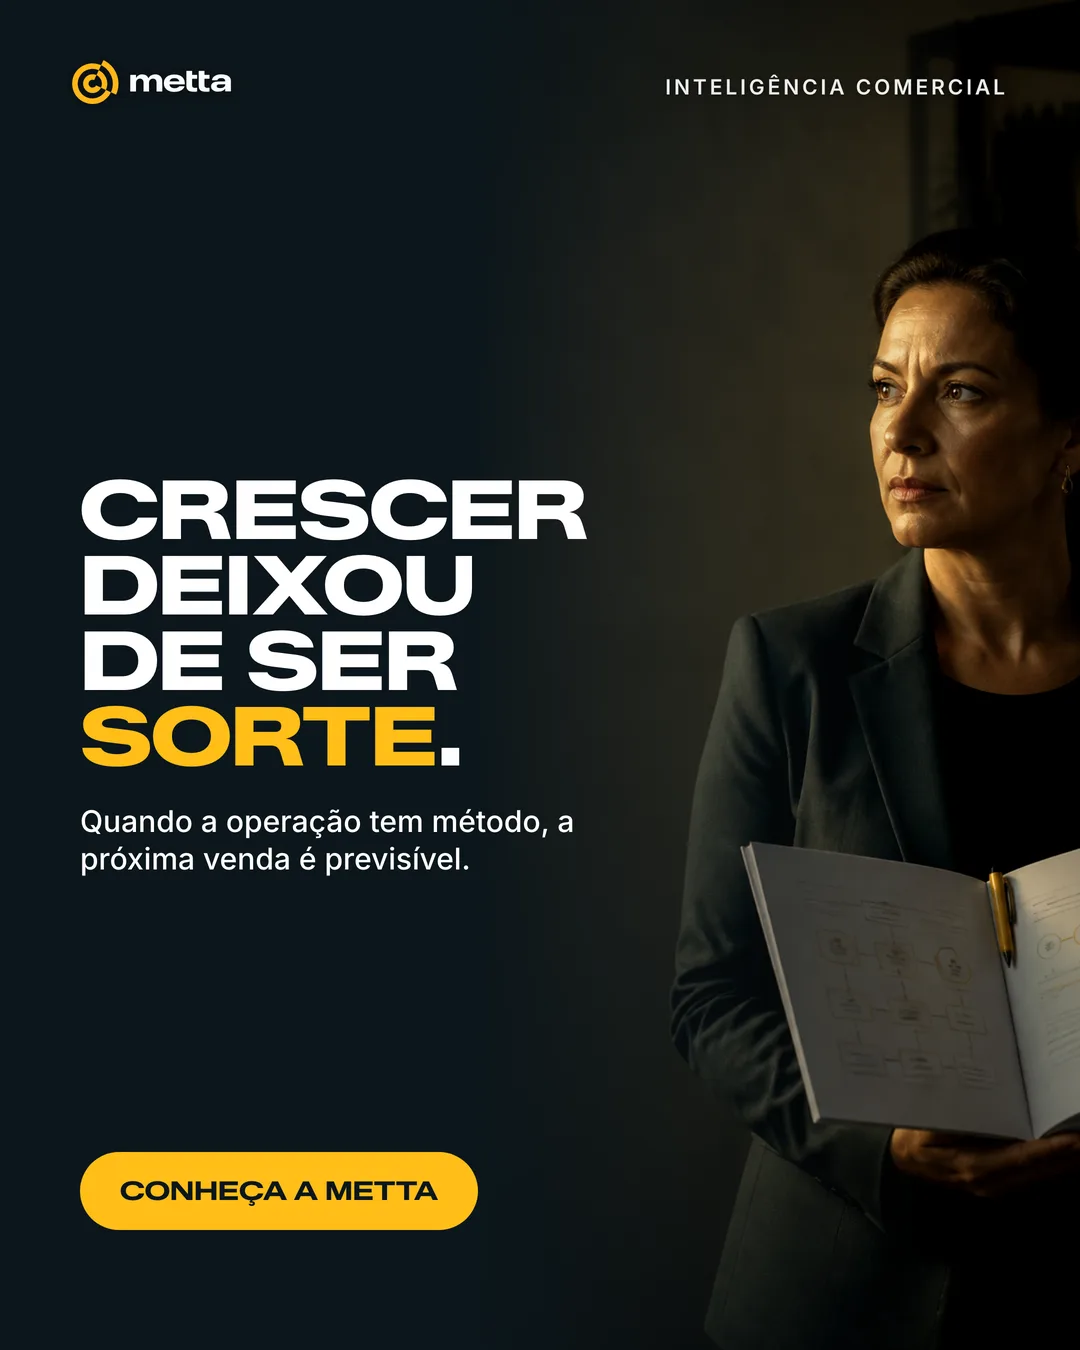
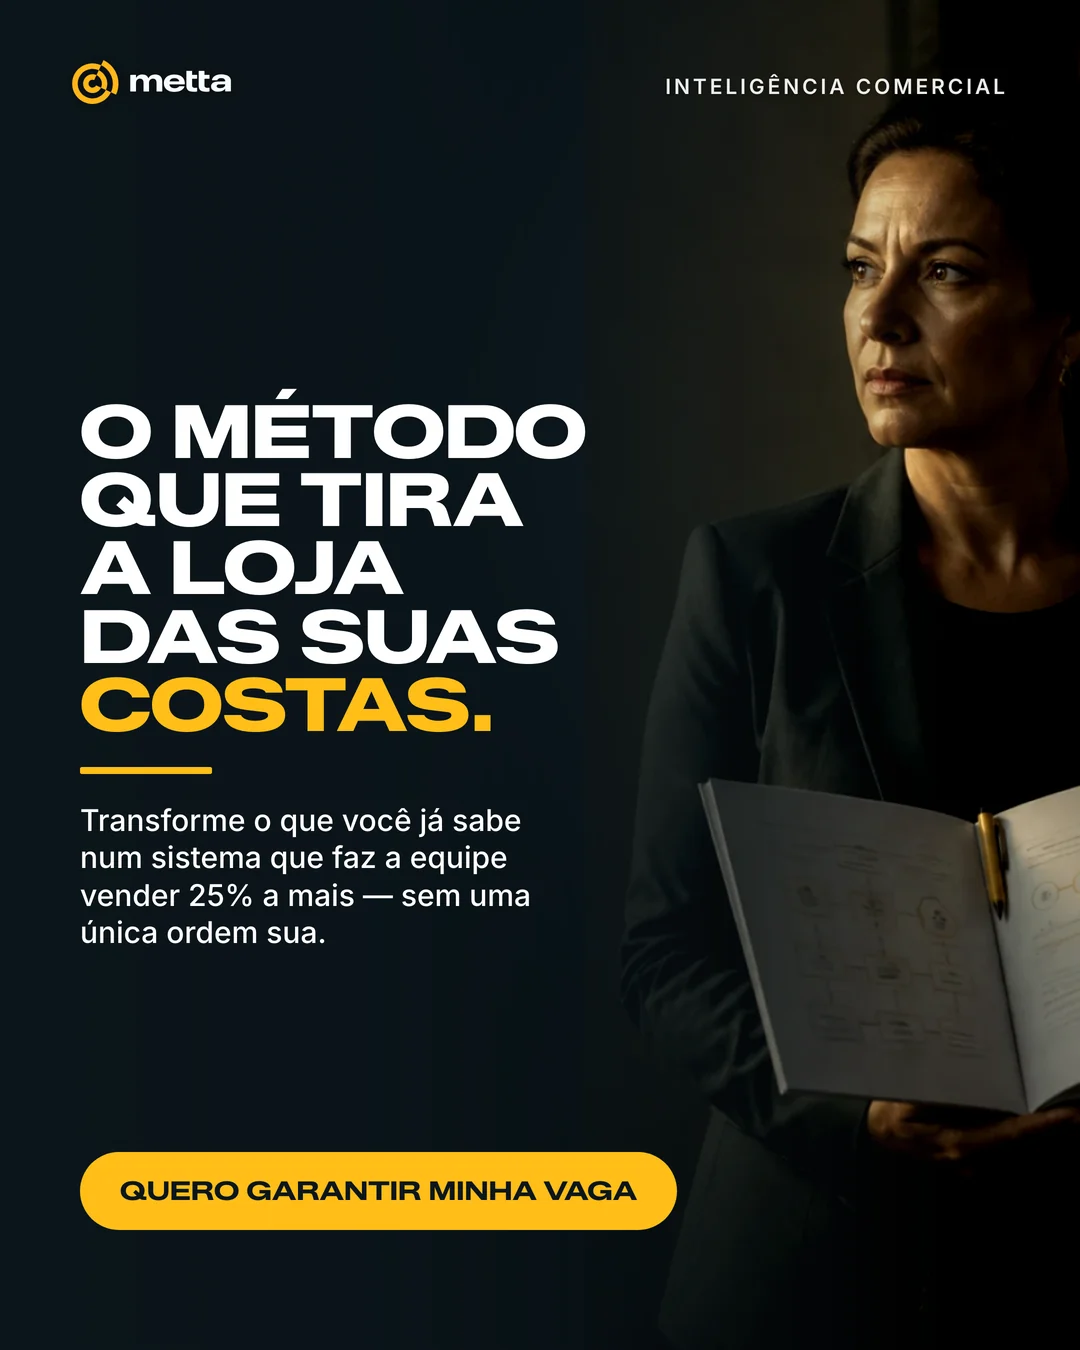
feat(picker): atualiza os 14 previews da etapa Estilo + fixes de raiz
Previews estavam datados (7-8/jul, antes das correções): o do tweet mostrava
avatar 'M', selo cinza e destaque amarelo — tudo já corrigido. Refeitos os 14:

- 5 só-texto re-renderizados com o motor atual (tweet, tipografia pura,
  número gigante, frame, headline branco).
- 5 com foto nova gerada (objeto 3D, fullbleed, editorial surreal, retrato
  P&B, bloco amarelo).
- 4 com composição calibrada / foto limpa (headline dark = ICP Metta +
  livro de método; foto-topo; card notícia; split amarelo = time de 3).

Fixes de raiz descobertos no processo:
- _art_director.py: campo `proof` dava "+R$ 8,5 BILHÕES" como EXEMPLO e o
  LLM copiava como dado real (aparecia em 3 peças). Trocado por placeholders
  «métrica» + regra dura de nunca inventar/estimar número.
- criar.html: LOGO-WALL vira "Em breve" (não há logos reais dos clientes;
  renderizava placeholders "logo"). Sai também das opções de carrossel.

engine: bump do pointer pro fix do tese_central (já pushado no ad-generator).

diff --git a/source/embed/criar.html b/source/embed/criar.html
@@ -1165,7 +1165,7 @@ const STYLES_METTA = [
   { id: 'YELLOW-SPLIT',                  label: 'Split amarelo/foto',                desc: 'Canvas dividido — metade amarela com headline, metade foto. Dualidade clara.',                                                            usaImagem: true,  formatos: ['feed','ad-story'], previewSrc: '/assets/style-previews/metta/yellow-split.webp' },
   { id: 'H-fundo-branco-headline-gigante', label: 'Headline gigante fundo branco',   desc: 'Branco puro + headline gigante em preto. Manifesto/posicionamento de alta gravidade.',                                                  usaImagem: false, formatos: ['feed'], previewSrc: '/assets/style-previews/metta/h.webp' },
   { id: 'I-retrato-editorial-pb',        label: 'Retrato editorial P&B',             desc: 'Retrato em preto-e-branco editorial + tipografia mínima. Autoridade silenciosa.',                                                        usaImagem: true,  formatos: ['feed'], previewSrc: '/assets/style-previews/metta/i.webp' },
-  { id: 'LOGO-WALL',                     label: 'Wall de logos clientes',            desc: 'Grade de logos B&W dos clientes (Sicredi, Vivo, etc.) + headline. Prova social agregada.',                                              usaImagem: false, formatos: ['feed'], previewSrc: '/assets/style-previews/metta/logo-wall.webp' }
+  { id: 'LOGO-WALL',                     label: 'Wall de logos clientes',            desc: 'Grade de logos B&W dos clientes (Sicredi, Vivo, etc.) + headline. Prova social agregada.',                                              usaImagem: false, formatos: ['feed'], comingSoon: true, previewSrc: '/assets/style-previews/metta/logo-wall.webp' }
 ];
 
 const STYLES_TIAGO = [

diff --git a/api/_art_director.py b/api/_art_director.py
@@ -91,13 +91,17 @@ Você entrega DUAS coisas:
    (topo, sem card) e o card (white) embaixo leva só SUBTÍTULO + prova + CTA.
    Use quando a headline é uma pergunta/afirmação de impacto que quer respirar na
    imagem e o apoio é denso. Só vale com panel de fundo (white/dark).
-8. proof: "" ou PROVA SOCIAL. Dois formatos:
-   • LINHA (canto inferior): "+1.000 EMPRESAS · +R$8,5 BI EM VENDAS". Use quando o
-     card está no topo (text_anchor="top"), pra não colidir.
-   • CHIP emoldurado (no fluxo do texto): "valor | legenda", ex.: "+R$ 8,5 BILHÕES |
-     gerados em vendas no último ano". Vira uma caixinha com borda (assinatura
-     convite/60-min). Use quando há um número forte a destacar.
-   Só preencha se o conhecimento trouxer número REAL; senão deixe "".
+8. proof: "" ou PROVA SOCIAL. Dois formatos (o «…» é PLACEHOLDER de formato —
+   NUNCA copie os números do exemplo; use SÓ números que aparecem literalmente
+   no CONHECIMENTO/COPY fornecidos):
+   • LINHA (canto inferior): "«MÉTRICA» · «MÉTRICA»". Use quando o card está no
+     topo (text_anchor="top"), pra não colidir.
+   • CHIP emoldurado (no fluxo do texto): "«valor» | «legenda»". Vira uma caixinha
+     com borda. Use quando há um número forte JÁ PRESENTE no material.
+   REGRA DURA: proof só existe se houver um número REAL vindo do conhecimento ou
+   da própria copy. NÃO invente, estime ou reaproveite números de exemplo (ex.:
+   faturamento, nº de empresas, %). Na dúvida, deixe "". Prova inventada é pior
+   que prova nenhuma.
 
 == B) CONCEITO VISUAL (só quando NEEDS_IMAGE=sim) ==
 Leia a MENSAGEM da copy (o conceito, não as palavras) e invente uma CENA que a
